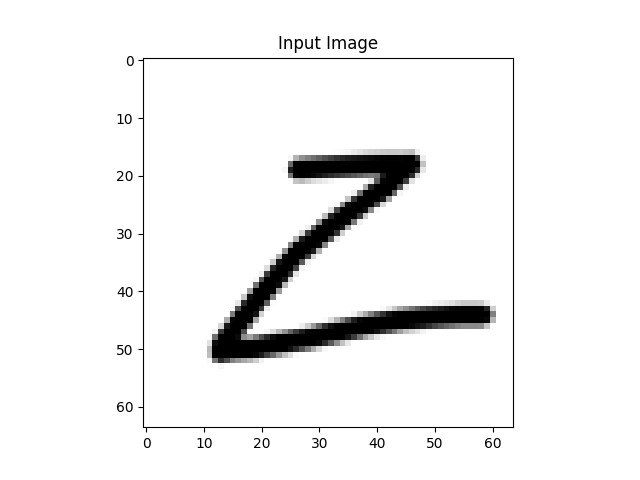
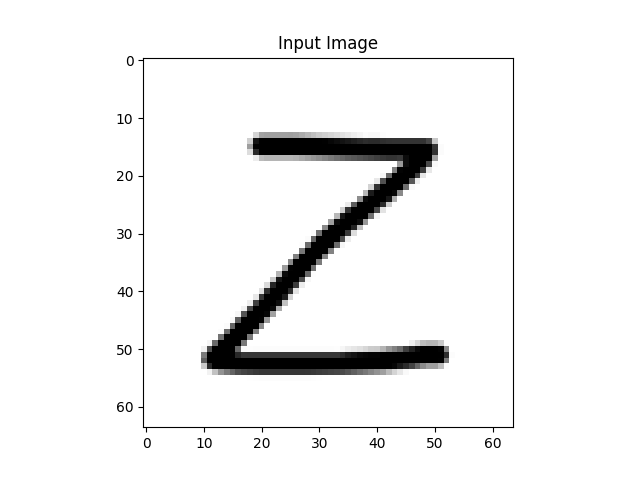
Assessment Level 2 Backend

Changed region(s): [[0.3125, 0.25, 0.7812, 0.7812]]

diff --git a/app.py b/app.py
@@ -257,6 +257,161 @@ def predict_q7():
                 else:
                     print("Correct d")
 
+#A-Level 2 Question#8
+@app.route("/predict_q8",methods=['POST'])
+def predict_q8():
+    user_id=request.form.get('user_id')
+    question_number=request.form.get('question_number')
+    expected_Letter=request.form.get('expected_Letter')
+    Box_Index=request.form.get('Box_Index')
+    file = request.files["file"]
+    
+    if user_id:
+        db = get_db()
+        doc_ref = db.collection('Assessment_Test') \
+            .document(user_id) \
+            .collection('Level_2') \
+            .document(str(question_number))
+        print("The User(id): ",user_id)
+        print("The Question Number: ",question_number)
+        #Box n
+        if Box_Index=="1":
+            img = Image.open(file.stream).convert("RGB") 
+            print("Box Index",Box_Index)
+            print("Expected Letter: ",expected_Letter)
+            model_predict_1=g_handler_letter(img)
+            # model_predict_1=""
+            # for x in pred['prediction']:
+            #     if isinstance(x, str):
+            #         model_predict_1= x
+            # print("Model Prediction: ",model_predict_1)
+            print("Model Prediction: ",model_predict_1)
+            if model_predict_1 != 'n':
+                doc_ref.set({
+                    'Question Number': question_number,
+                    'Answer': 'Incorrect',
+                    'Error': ArrayUnion(['n'])
+                    },merge=True)
+                # doc_ref.update({
+                #     'Error': ArrayUnion(['n'])
+                #     })
+                print("Error n")
+                return "incorrect"
+            print("correct")
+            return "correct"
+        #Box u
+        elif Box_Index=="2":
+            img = Image.open(file.stream).convert("RGB") 
+            print("Box Index",Box_Index)
+            print("Expected Letter: ",expected_Letter)
+            print("Box Index",Box_Index)
+            pred=letter_predict(img)
+            model_predict_2=""
+            for x in pred['prediction']:
+                if isinstance(x, str):
+                    model_predict_2= x
+            print("Model Prediction: ",model_predict_2)
+            if model_predict_2 not in ['u','U_caps']:
+                doc_ref.set({
+                    'Question Number': question_number,
+                    'Answer': 'Incorrect',
+                    'Error': ArrayUnion(['u'])
+                    },merge=True)
+                # doc_ref.update({
+                #     'Error': ArrayUnion(['u'])
+                #     })
+                print("Error u")
+                return "incorrect"
+            print("correct")
+            return "correct"
+        #Box s
+        elif Box_Index=="3":
+            img = Image.open(file.stream).convert("RGB") 
+            print("Box Index",Box_Index)
+            print("Expected Letter: ",expected_Letter)
+            print("Box Index",Box_Index)
+            pred=letter_predict(img)
+            model_predict_3=""
+            for x in pred['prediction']:
+                if isinstance(x, str):
+                    model_predict_3= x
+            print("Model Prediction: ",model_predict_3)
+            if model_predict_3 not in ['s','S_caps',5]:
+                doc_ref.set({
+                    'Question Number': question_number,
+                    'Answer': 'Incorrect',
+                    'Error': ArrayUnion(['s'])
+                    },merge=True)
+                # doc_ref.update({
+                #     'Error': ArrayUnion(['s'])
+                #     })
+                print("Error s")
+                return "incorrect"
+            print("correct")
+            return "correct"
+        #Box z
+        elif Box_Index=="4":
+            img = Image.open(file.stream).convert("RGB") 
+            print("Box Index",Box_Index)
+            print("Expected Letter: ",expected_Letter)
+            print("Box Index",Box_Index)
+            pred=letter_predict(img)
+            model_predict_4=""
+            for x in pred['prediction']:
+                if isinstance(x, str):
+                    model_predict_4= x
+            print("Model Prediction: ",model_predict_4)
+            if model_predict_4 not in ['z','Z_caps']:
+                doc_ref.set({
+                    'Question Number': question_number,
+                    'Answer': 'Incorrect',
+                    'Error': ArrayUnion(['z'])
+                    },merge=True)
+                # doc_ref.update({
+                #     'Error': ArrayUnion(['z'])
+                #     })
+                print("Error z")
+                return "incorrect"
+            print("correct")
+            return "correct"
+        else:
+            return "incorrect"
+        
+
+
+
+#A-Level 2 Question#10
+@app.route("/predict_q10",methods=['POST'])
+def predict_q10():
+    user_id=request.form.get('user_id')
+    question_number=request.form.get('question_number')
+    reverse_letter=request.form.get('reversed_selected')
+    if user_id:
+        print("The user(id): ",user_id)
+        print("The Question Number: ",question_number)
+        print("Reversed Letter: ",reverse_letter)
+        db = get_db()
+        doc_ref = db.collection('Assessment_Test') \
+            .document(user_id) \
+            .collection('Level_2') \
+            .document(str(question_number))
+        if reverse_letter in ['ᗺ','Ↄ']:
+            return "correct"
+        else:
+            doc_ref.set({
+                'Question Number': question_number,
+                'Answer': 'Incorrect',
+                },merge=True)
+            doc_ref.update({
+                'Error': ArrayUnion(['B','C'])
+                })
+            return "incorrect"
+
+
+
+
+
+
 
 if __name__ == "__main__":
     app.run(host='192.168.0.14', port=5000)

diff --git a/apis/firestorequery_handler.py b/apis/firestorequery_handler.py
@@ -5,7 +5,7 @@ def store_direction_error(user_id, direction_predicted,question_number):
     db = get_db()
     
     # 1. Reference the user's document
-    doc_ref = db.collection('Error_Classification').document(user_id)
+    doc_ref = db.collection('Assessment_Test').document(user_id).collection('Level_1').document(str(question_number))
     
     # Capitalize to match DB format (e.g., "Up", "Down")
     direction_key = direction_predicted.capitalize() 
